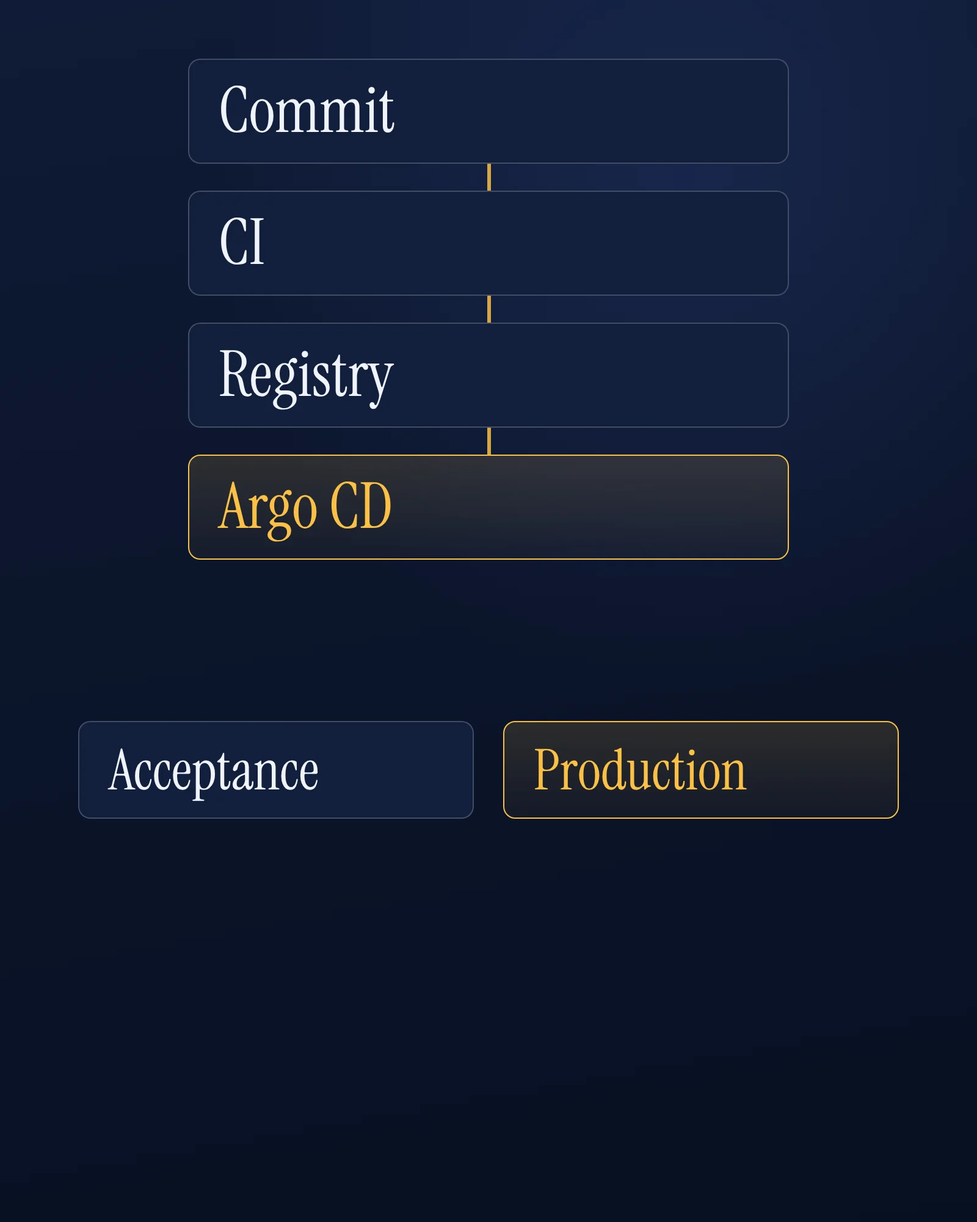
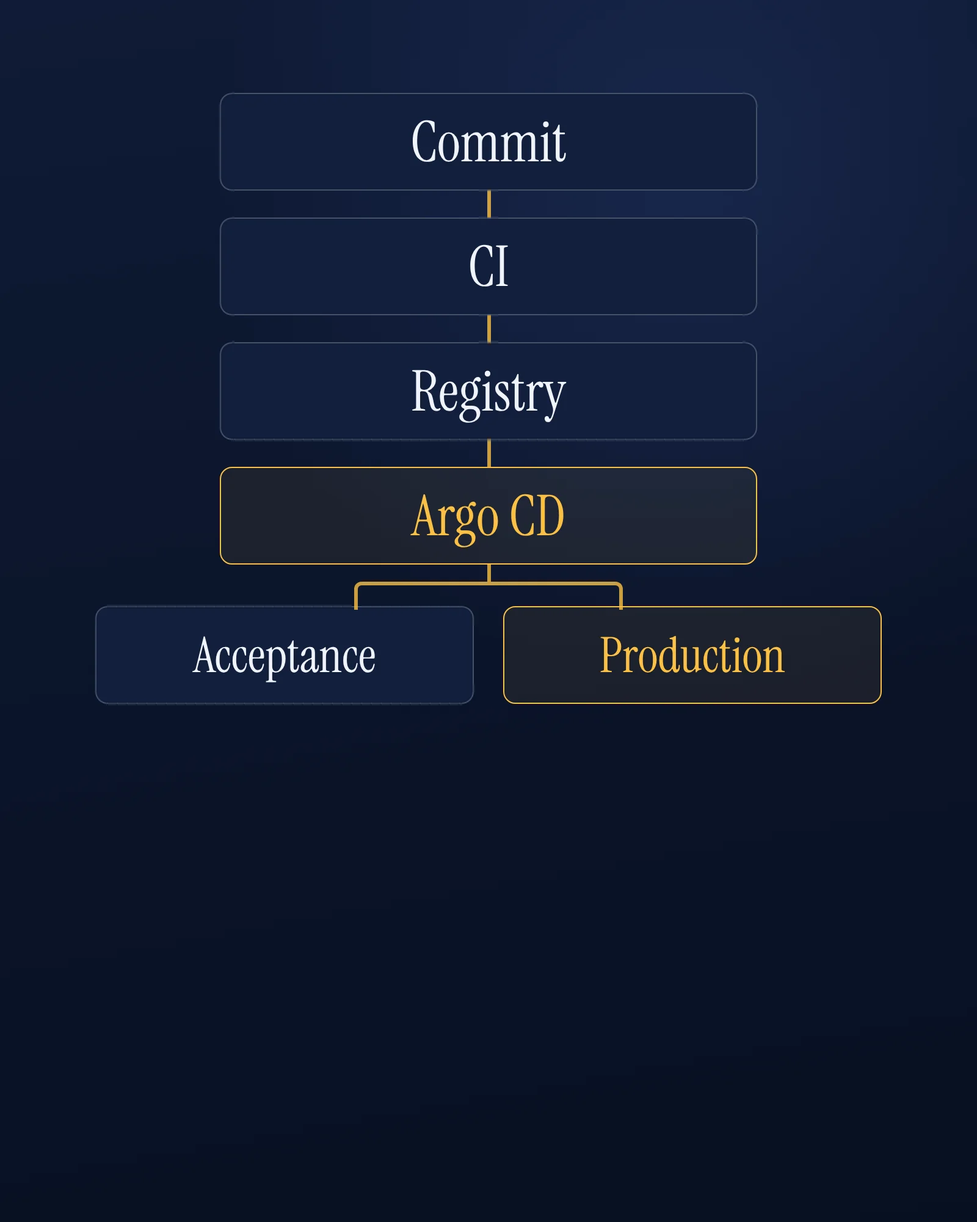
Round 14: rewritten About me and Experience story, card covers drawn for the 4:5 card
Claude-Session: https://claude.ai/code/session_01MZiGAcmWGZMW18cgyC5YR7

diff --git a/design/directions/r2-beeld/artifact/index.html b/design/directions/r2-beeld/artifact/index.html
@@ -29,7 +29,7 @@
         <p class="stage__kicker">Guus Ekkelenkamp · Rotterdam</p>
         <h1 class="stage__title" id="hero-title">I like building things that keep running.</h1>
         <p class="stage__role">Tech lead infrastructure &amp; platform engineering at Harborn</p>
-        <p class="stage__intro">I build and run the platforms our client projects run on: Kubernetes, GitOps and infrastructure as code on AWS and Azure. Ten years at the same agency, from front-end intern to leading the infra team, and I still write code most days.</p>
+        <p class="stage__intro">I&rsquo;m Guus. I lead the infrastructure team at Harborn, a digital agency in Rotterdam, where I build and run the platform our client projects live on: Kubernetes, GitOps and infrastructure as code on AWS and Azure. Ten years in, and I still write code most days.</p>
         <dl class="stats">
           <div><dd>10+</dd><dt>years</dt></div>
           <div><dd>8</dd><dt>clusters</dt></div>
@@ -54,21 +54,21 @@
     <h2 class="sec__h" id="about-title">About me</h2>
     <div class="sec__body">
       <div class="prose about__prose">
-        <p>I&rsquo;m an open person and I like bringing out the best in people. In the right environment I have a lot of energy, and I love connecting people. I&rsquo;m usually the one organising things, at work and with friends, and I like doing activities together. I don&rsquo;t like things formal. I&rsquo;m a real Rotterdammer.</p>
-        <p>Gaming got me into tech, and work made me stay; I don&rsquo;t game much anymore. What I enjoy most is cracking a hard problem, and then making sure people have the tools to solve the next one themselves.</p>
+        <p>I&rsquo;m a real Rotterdammer, which mostly means I say what I think and skip the formalities. I&rsquo;m an open person and I like bringing out the best in people. Put me in the right setting and I have energy to spare. With friends I&rsquo;m usually the one who plans the outing and chases everyone in the group chat for a date. I do the same at work, because someone has to and I quite like being that person.</p>
+        <p>Gaming got me into tech and work got me stuck, though I barely game anymore. What I enjoy most hasn&rsquo;t changed since my first year: digging into a difficult problem until it&rsquo;s fixed, then making sure people have the tools to fix the next one themselves.</p>
       </div>
       <ul class="likes__list">
-        <li class="like" data-lift="bouldering" tabindex="0"><span class="like__mark" aria-hidden="true"></span><span class="like__name">Bouldering</span><span class="like__line">Mostly at Neoliet in Rotterdam.</span></li>
-        <li class="like" data-lift="travel" tabindex="0"><span class="like__mark" aria-hidden="true"></span><span class="like__name">Travelling</span><span class="like__line">Mostly in Asia; Japan and South Korea stood out.</span></li>
-        <li class="like" data-lift="me" tabindex="0"><span class="like__mark" aria-hidden="true"></span><span class="like__name">Card and board games</span><span class="like__line">Mostly one card game, but I like all kinds of games, usually with friends.</span></li>
-        <li class="like" data-lift="me" tabindex="0"><span class="like__mark" aria-hidden="true"></span><span class="like__name">Tinkering</span><span class="like__line">My home server and a small Kubernetes setup at home.</span></li>
+        <li class="like" data-lift="bouldering" tabindex="0"><span class="like__mark" aria-hidden="true"></span><span class="like__name">Bouldering</span><span class="like__line">Usually at Neoliet, my climbing gym in Rotterdam.</span></li>
+        <li class="like" data-lift="travel" tabindex="0"><span class="like__mark" aria-hidden="true"></span><span class="like__name">Travelling</span><span class="like__line">Mostly Asia; Japan and South Korea are my favourites so far.</span></li>
+        <li class="like" data-lift="me" tabindex="0"><span class="like__mark" aria-hidden="true"></span><span class="like__name">Card and board games</span><span class="like__line">One card game most of all, but anything goes with friends.</span></li>
+        <li class="like" data-lift="me" tabindex="0"><span class="like__mark" aria-hidden="true"></span><span class="like__name">Tinkering</span><span class="like__line">My home server and a small Kubernetes setup.</span></li>
       </ul>
     </div>
   </section>
 
   <section class="wrap strip" id="projects" aria-labelledby="projects-title">
     <div class="strip__head"><h2 class="strip__h" id="projects-title">Projects</h2><a class="strip__all" href="projects.html">All projects <span aria-hidden="true">&rarr;</span></a></div>
-    <ul class="covers"><li class="cover"><a class="cover__link" href="platform.html"><picture><source media="(max-width: 699px)" srcset="assets/covers/platform-wide.webp 1x, assets/covers/platform-wide@2x.webp 2x" width="1600" height="1000"><img class="cover__img" src="assets/covers/platform-card.webp" srcset="assets/covers/platform-card.webp 1x, assets/covers/platform-card@2x.webp 2x" width="800" height="1000" alt="" loading="lazy" decoding="async"></picture><span class="cover__text"><span class="cover__meta">Work · 2022 to now</span><span class="cover__title">Hosting platform</span><span class="cover__line">The Kubernetes platform our client projects run on: AWS first, the same setup on Azure.</span></span></a></li><li class="cover"><a class="cover__link" href="homelab.html"><picture><source media="(max-width: 699px)" srcset="assets/covers/homelab-wide.webp 1x, assets/covers/homelab-wide@2x.webp 2x" width="1600" height="1000"><img class="cover__img" src="assets/covers/homelab-card.webp" srcset="assets/covers/homelab-card.webp 1x, assets/covers/homelab-card@2x.webp 2x" width="800" height="1000" alt="" loading="lazy" decoding="async"></picture><span class="cover__text"><span class="cover__meta">Personal · 2026</span><span class="cover__title">Homelab</span><span class="cover__line">The patterns I use at work, on one old laptop at home.</span></span></a></li><li class="cover"><a class="cover__link" href="mtg.html"><picture><source media="(max-width: 699px)" srcset="assets/covers/mtg-wide.webp 1x, assets/covers/mtg-wide@2x.webp 2x" width="1600" height="1000"><img class="cover__img" src="assets/covers/mtg-card.webp" srcset="assets/covers/mtg-card.webp 1x, assets/covers/mtg-card@2x.webp 2x" width="800" height="1000" alt="" loading="lazy" decoding="async"></picture><span class="cover__text"><span class="cover__meta">Personal · 2026</span><span class="cover__title">MTG suite</span><span class="cover__line">Four tools for Magic: The Gathering, all running on the homelab.</span></span></a></li></ul>
+    <ul class="covers"><li class="cover"><a class="cover__link" href="platform.html"><img class="cover__img" src="assets/covers/platform-card.webp" srcset="assets/covers/platform-card.webp 1x, assets/covers/platform-card@2x.webp 2x" width="800" height="1000" alt="" loading="lazy" decoding="async"><span class="cover__text"><span class="cover__meta">Work · 2022 to now</span><span class="cover__title">Hosting platform</span><span class="cover__line">The Kubernetes platform our client projects run on: AWS first, the same setup on Azure.</span></span></a></li><li class="cover"><a class="cover__link" href="homelab.html"><img class="cover__img" src="assets/covers/homelab-card.webp" srcset="assets/covers/homelab-card.webp 1x, assets/covers/homelab-card@2x.webp 2x" width="800" height="1000" alt="" loading="lazy" decoding="async"><span class="cover__text"><span class="cover__meta">Personal · 2026</span><span class="cover__title">Homelab</span><span class="cover__line">The patterns I use at work, on one old laptop at home.</span></span></a></li><li class="cover"><a class="cover__link" href="mtg.html"><img class="cover__img" src="assets/covers/mtg-card.webp" srcset="assets/covers/mtg-card.webp 1x, assets/covers/mtg-card@2x.webp 2x" width="800" height="1000" alt="" loading="lazy" decoding="async"><span class="cover__text"><span class="cover__meta">Personal · 2026</span><span class="cover__title">MTG suite</span><span class="cover__line">Four tools for Magic: The Gathering, all running on the homelab.</span></span></a></li></ul>
   </section>
 
 
@@ -81,41 +81,44 @@
       <ol class="phases">
         <li class="phase">
           <h4 class="phase__title">Tech lead infrastructure <span class="phase__years">2024–now</span></h4>
+          <p class="phase__intro">The platform I started became the standard for our clients, and running it now means leading the team behind it.</p>
           <ul>
-            <li>I lead the infra team, up to four engineers. A normal week is reviews and architecture decisions, training and mentoring, and client contact, including the escalations.</li>
-            <li>I run the <a href="platform.html">hosting platform</a>: 8 Kubernetes clusters, the largest above 1,500 pods. I&rsquo;m moving its infrastructure delivery to Pulumi.</li>
-            <li>We moved the clusters from IPv4 to IPv6, which didn&rsquo;t go without problems (<a href="#learned">one of them below</a>).</li>
-            <li>Training programmes with clients and internal knowledge sessions, so the knowledge doesn&rsquo;t stay with me.</li>
-            <li>Security officer for our ISO 27001 certification: I maintain the policies, the management system and the audits.</li>
+            <li>I lead the infra team, up to four engineers. A normal week is reviewing their changes, making architecture decisions, mentoring, and handling client contact and escalations.</li>
+            <li>I run the <a href="platform.html">hosting platform</a>: 8 Kubernetes clusters for Dutch and international clients on AWS (Ireland and Tokyo) and Azure. The largest runs more than 1,500 pods, and about 80 apps deploy through Argo CD.</li>
+            <li>I&rsquo;m moving infrastructure delivery to Pulumi. We also moved the clusters from IPv4 to IPv6, which didn&rsquo;t go without problems (<a href="#learned">one of them below</a>).</li>
+            <li>I run training programmes with clients and internal knowledge sessions. As security officer for ISO 27001, I maintain the policies, the audits and the management system.</li>
           </ul>
-          <p class="phase__learned">What I learned: how much a team gets done when knowledge is shared instead of held.</p>
+          <p class="phase__learned">What I learned: an hour spent on a review or a training session pays off more than an hour spent fixing things myself.</p>
         </li>
         <li class="phase">
           <h4 class="phase__title">Infrastructure engineer <span class="phase__years">2020–2024</span></h4>
+          <p class="phase__intro">Once I knew my way around AWS and networking, I moved into infrastructure full time and started the platform I run today.</p>
           <ul>
-            <li>Complex architectures and networking, which I love as a puzzle.</li>
-            <li>Our Jenkins as code, and the company&rsquo;s whole infrastructure as code.</li>
-            <li>Started the custom hosting platform: a multi-year project, and the one I learned the most from.</li>
-            <li>Internal tooling, such as a CLI that gets anyone into any environment with the right role.</li>
+            <li>I designed complex architectures and networks, the part of the work I enjoy most, because each one is a puzzle.</li>
+            <li>I put our Jenkins in code, then the rest of the company&rsquo;s infrastructure, including the serverless foundations on AWS.</li>
+            <li>I started the custom hosting platform: a multi-year project that replaced a separate setup per client with one shared standard.</li>
+            <li>I built internal tooling, such as a CLI that gets anyone into any environment with the right role.</li>
           </ul>
-          <p class="phase__learned">What I learned: the most, from building the hosting platform over several years.</p>
+          <p class="phase__learned">What I learned: one standard platform, fully in code, is easier to change and support than a custom setup for every client.</p>
         </li>
         <li class="phase">
           <h4 class="phase__title">Back-end and serverless developer <span class="phase__years">2017–2020</span></h4>
+          <p class="phase__intro">From the front end I moved to the back end, where my code started to depend on the infrastructure it ran on.</p>
           <ul>
-            <li>Python, including piloting it as a language at Harborn.</li>
-            <li>Pioneered infrastructure as code and serverless on AWS (Lambda, CloudWatch, S3, Aurora), plus the CI/CD automation around it.</li>
-            <li>Worked on a worldwide B2B ordering platform.</li>
+            <li>I piloted Python as a language at Harborn and used it for most of my back-end work.</li>
+            <li>I introduced infrastructure as code and serverless on AWS (Lambda, CloudWatch, S3, Aurora), with CI/CD automation to deploy it.</li>
+            <li>I worked on a worldwide B2B ordering platform.</li>
           </ul>
-          <p class="phase__learned">What I learned: AWS and networking.</p>
+          <p class="phase__learned">What I learned: AWS and networking, which is what pulled me towards infrastructure.</p>
         </li>
         <li class="phase">
           <h4 class="phase__title">Front-end developer, intern then junior <span class="phase__years">2016–2017</span></h4>
+          <p class="phase__intro">I started at Harborn as a front-end intern and stayed on as a junior developer.</p>
           <ul>
-            <li>Mostly Angular, on client projects.</li>
-            <li>My internship was a complete website, from researching headless CMSes to implementing one.</li>
+            <li>Most of my work was in Angular.</li>
+            <li>For my internship I built a complete website: I researched headless CMSes first, then implemented one.</li>
           </ul>
-          <p class="phase__learned">What I learned: shipping a whole product, end to end.</p>
+          <p class="phase__learned">What I learned: how to take a website from the first technical choice to a finished build.</p>
         </li>
       </ol>
     </div>
@@ -125,13 +128,13 @@
     <h2 class="sec__h" id="learned-title">What I&rsquo;ve learned</h2>
     <div class="sec__body">
       <dl class="deflist learned-list">
-        <div><dt>Teaching beats fixing</dt><dd>Fixing it myself is quick. Showing someone how to fix it scales.</dd></div>
-        <div><dt>Standardise first</dt><dd>One platform for every client beats a custom setup per project, for the client and for whoever is on call.</dd></div>
-        <div><dt>Everything as code</dt><dd>If it isn&rsquo;t in git, it doesn&rsquo;t exist: infrastructure as code, Jenkins as code, GitOps.</dd></div>
+        <div><dt>Teaching beats fixing</dt><dd>If I fix something myself, it&rsquo;s fixed once. If I teach someone how, through a review, mentoring or a knowledge session, the team handles it next time without me.</dd></div>
+        <div><dt>Standardise first</dt><dd>One platform for every client means one way to deploy, upgrade and debug. A custom setup per project turns every upgrade and every incident into a one-off.</dd></div>
+        <div><dt>Everything as code</dt><dd>Jenkins, the infrastructure and the deployments all live in git, so every change is reviewable, repeatable and easy to trace.</dd></div>
       </dl>
       <div class="story">
         <p class="story__h">From the IPv6 move</p>
-        <p>A database got a dual-stack address, so the apps resolved both an IPv4 and an IPv6 address. The IPv6 connections hung, because the security group only allowed IPv4. On top of that, IPv6-only egress only works with DNS64 and NAT64, so everything around it needs testing too.</p>
+        <p>After we moved the clusters to IPv6, apps started hanging when they connected to a database. The database had a dual-stack address, so the apps resolved both an IPv4 and an IPv6 address, and the IPv6 connections hung because the security group only allowed IPv4. Allowing IPv6 there fixed it. The bigger lesson: IPv6-only egress only works with DNS64 and NAT64, so everything around the clusters needs testing too.</p>
       </div>
     </div>
   </section>
@@ -162,7 +165,7 @@
     <div class="sec__body">
       <p class="contact__mail" id="mail-address">ekkelenkampguus@gmail.com</p>
       <p><button type="button" class="copy" data-copy-target="mail-address" aria-describedby="copy-status"><svg viewBox="0 0 24 24" fill="none" stroke="currentColor" stroke-width="1.6" aria-hidden="true"><rect x="8" y="8" width="12" height="12" rx="1"/><path d="M16 8V4H4v12h4"/></svg><span class="copy__label">Copy address</span></button><span class="visually-hidden" id="copy-status" role="status" aria-live="polite"></span></p>
-      <p class="contact__line">Want to talk platforms, homelabs or games? Mail me.</p>
+      <p class="contact__line">Mail me about anything on this page, or just to say hi. I do reply, eventually.</p>
     </div>
   </section>
   </div>

diff --git a/design/directions/r2-beeld/index.html b/design/directions/r2-beeld/index.html
@@ -36,7 +36,7 @@
         <p class="stage__kicker">Guus Ekkelenkamp · Rotterdam</p>
         <h1 class="stage__title" id="hero-title">I like building things that keep running.</h1>
         <p class="stage__role">Tech lead infrastructure &amp; platform engineering at Harborn</p>
-        <p class="stage__intro">I build and run the platforms our client projects run on: Kubernetes, GitOps and infrastructure as code on AWS and Azure. Ten years at the same agency, from front-end intern to leading the infra team, and I still write code most days.</p>
+        <p class="stage__intro">I&rsquo;m Guus. I lead the infrastructure team at Harborn, a digital agency in Rotterdam, where I build and run the platform our client projects live on: Kubernetes, GitOps and infrastructure as code on AWS and Azure. Ten years in, and I still write code most days.</p>
         <dl class="stats">
           <div><dd>10+</dd><dt>years</dt></div>
           <div><dd>8</dd><dt>clusters</dt></div>
@@ -61,21 +61,21 @@
     <h2 class="sec__h" id="about-title">About me</h2>
     <div class="sec__body">
       <div class="prose about__prose">
-        <p>I&rsquo;m an open person and I like bringing out the best in people. In the right environment I have a lot of energy, and I love connecting people. I&rsquo;m usually the one organising things, at work and with friends, and I like doing activities together. I don&rsquo;t like things formal. I&rsquo;m a real Rotterdammer.</p>
-        <p>Gaming got me into tech, and work made me stay; I don&rsquo;t game much anymore. What I enjoy most is cracking a hard problem, and then making sure people have the tools to solve the next one themselves.</p>
+        <p>I&rsquo;m a real Rotterdammer, which mostly means I say what I think and skip the formalities. I&rsquo;m an open person and I like bringing out the best in people. Put me in the right setting and I have energy to spare. With friends I&rsquo;m usually the one who plans the outing and chases everyone in the group chat for a date. I do the same at work, because someone has to and I quite like being that person.</p>
+        <p>Gaming got me into tech and work got me stuck, though I barely game anymore. What I enjoy most hasn&rsquo;t changed since my first year: digging into a difficult problem until it&rsquo;s fixed, then making sure people have the tools to fix the next one themselves.</p>
       </div>
       <ul class="likes__list">
-        <li class="like" data-lift="bouldering" tabindex="0"><span class="like__mark" aria-hidden="true"></span><span class="like__name">Bouldering</span><span class="like__line">Mostly at Neoliet in Rotterdam.</span></li>
-        <li class="like" data-lift="travel" tabindex="0"><span class="like__mark" aria-hidden="true"></span><span class="like__name">Travelling</span><span class="like__line">Mostly in Asia; Japan and South Korea stood out.</span></li>
-        <li class="like" data-lift="me" tabindex="0"><span class="like__mark" aria-hidden="true"></span><span class="like__name">Card and board games</span><span class="like__line">Mostly one card game, but I like all kinds of games, usually with friends.</span></li>
-        <li class="like" data-lift="me" tabindex="0"><span class="like__mark" aria-hidden="true"></span><span class="like__name">Tinkering</span><span class="like__line">My home server and a small Kubernetes setup at home.</span></li>
+        <li class="like" data-lift="bouldering" tabindex="0"><span class="like__mark" aria-hidden="true"></span><span class="like__name">Bouldering</span><span class="like__line">Usually at Neoliet, my climbing gym in Rotterdam.</span></li>
+        <li class="like" data-lift="travel" tabindex="0"><span class="like__mark" aria-hidden="true"></span><span class="like__name">Travelling</span><span class="like__line">Mostly Asia; Japan and South Korea are my favourites so far.</span></li>
+        <li class="like" data-lift="me" tabindex="0"><span class="like__mark" aria-hidden="true"></span><span class="like__name">Card and board games</span><span class="like__line">One card game most of all, but anything goes with friends.</span></li>
+        <li class="like" data-lift="me" tabindex="0"><span class="like__mark" aria-hidden="true"></span><span class="like__name">Tinkering</span><span class="like__line">My home server and a small Kubernetes setup.</span></li>
       </ul>
     </div>
   </section>
 
   <section class="wrap strip" id="projects" aria-labelledby="projects-title">
     <div class="strip__head"><h2 class="strip__h" id="projects-title">Projects</h2><a class="strip__all" href="projects.html">All projects <span aria-hidden="true">&rarr;</span></a></div>
-    <ul class="covers"><li class="cover"><a class="cover__link" href="platform.html"><picture><source media="(max-width: 699px)" srcset="assets/covers/platform-wide.webp 1x, assets/covers/platform-wide@2x.webp 2x" width="1600" height="1000"><img class="cover__img" src="assets/covers/platform-card.webp" srcset="assets/covers/platform-card.webp 1x, assets/covers/platform-card@2x.webp 2x" width="800" height="1000" alt="" loading="lazy" decoding="async"></picture><span class="cover__text"><span class="cover__meta">Work · 2022 to now</span><span class="cover__title">Hosting platform</span><span class="cover__line">The Kubernetes platform our client projects run on: AWS first, the same setup on Azure.</span></span></a></li><li class="cover"><a class="cover__link" href="homelab.html"><picture><source media="(max-width: 699px)" srcset="assets/covers/homelab-wide.webp 1x, assets/covers/homelab-wide@2x.webp 2x" width="1600" height="1000"><img class="cover__img" src="assets/covers/homelab-card.webp" srcset="assets/covers/homelab-card.webp 1x, assets/covers/homelab-card@2x.webp 2x" width="800" height="1000" alt="" loading="lazy" decoding="async"></picture><span class="cover__text"><span class="cover__meta">Personal · 2026</span><span class="cover__title">Homelab</span><span class="cover__line">The patterns I use at work, on one old laptop at home.</span></span></a></li><li class="cover"><a class="cover__link" href="mtg.html"><picture><source media="(max-width: 699px)" srcset="assets/covers/mtg-wide.webp 1x, assets/covers/mtg-wide@2x.webp 2x" width="1600" height="1000"><img class="cover__img" src="assets/covers/mtg-card.webp" srcset="assets/covers/mtg-card.webp 1x, assets/covers/mtg-card@2x.webp 2x" width="800" height="1000" alt="" loading="lazy" decoding="async"></picture><span class="cover__text"><span class="cover__meta">Personal · 2026</span><span class="cover__title">MTG suite</span><span class="cover__line">Four tools for Magic: The Gathering, all running on the homelab.</span></span></a></li></ul>
+    <ul class="covers"><li class="cover"><a class="cover__link" href="platform.html"><img class="cover__img" src="assets/covers/platform-card.webp" srcset="assets/covers/platform-card.webp 1x, assets/covers/platform-card@2x.webp 2x" width="800" height="1000" alt="" loading="lazy" decoding="async"><span class="cover__text"><span class="cover__meta">Work · 2022 to now</span><span class="cover__title">Hosting platform</span><span class="cover__line">The Kubernetes platform our client projects run on: AWS first, the same setup on Azure.</span></span></a></li><li class="cover"><a class="cover__link" href="homelab.html"><img class="cover__img" src="assets/covers/homelab-card.webp" srcset="assets/covers/homelab-card.webp 1x, assets/covers/homelab-card@2x.webp 2x" width="800" height="1000" alt="" loading="lazy" decoding="async"><span class="cover__text"><span class="cover__meta">Personal · 2026</span><span class="cover__title">Homelab</span><span class="cover__line">The patterns I use at work, on one old laptop at home.</span></span></a></li><li class="cover"><a class="cover__link" href="mtg.html"><img class="cover__img" src="assets/covers/mtg-card.webp" srcset="assets/covers/mtg-card.webp 1x, assets/covers/mtg-card@2x.webp 2x" width="800" height="1000" alt="" loading="lazy" decoding="async"><span class="cover__text"><span class="cover__meta">Personal · 2026</span><span class="cover__title">MTG suite</span><span class="cover__line">Four tools for Magic: The Gathering, all running on the homelab.</span></span></a></li></ul>
   </section>
 
 
@@ -88,41 +88,44 @@
       <ol class="phases">
         <li class="phase">
           <h4 class="phase__title">Tech lead infrastructure <span class="phase__years">2024–now</span></h4>
+          <p class="phase__intro">The platform I started became the standard for our clients, and running it now means leading the team behind it.</p>
           <ul>
-            <li>I lead the infra team, up to four engineers. A normal week is reviews and architecture decisions, training and mentoring, and client contact, including the escalations.</li>
-            <li>I run the <a href="platform.html">hosting platform</a>: 8 Kubernetes clusters, the largest above 1,500 pods. I&rsquo;m moving its infrastructure delivery to Pulumi.</li>
-            <li>We moved the clusters from IPv4 to IPv6, which didn&rsquo;t go without problems (<a href="#learned">one of them below</a>).</li>
-            <li>Training programmes with clients and internal knowledge sessions, so the knowledge doesn&rsquo;t stay with me.</li>
-            <li>Security officer for our ISO 27001 certification: I maintain the policies, the management system and the audits.</li>
+            <li>I lead the infra team, up to four engineers. A normal week is reviewing their changes, making architecture decisions, mentoring, and handling client contact and escalations.</li>
+            <li>I run the <a href="platform.html">hosting platform</a>: 8 Kubernetes clusters for Dutch and international clients on AWS (Ireland and Tokyo) and Azure. The largest runs more than 1,500 pods, and about 80 apps deploy through Argo CD.</li>
+            <li>I&rsquo;m moving infrastructure delivery to Pulumi. We also moved the clusters from IPv4 to IPv6, which didn&rsquo;t go without problems (<a href="#learned">one of them below</a>).</li>
+            <li>I run training programmes with clients and internal knowledge sessions. As security officer for ISO 27001, I maintain the policies, the audits and the management system.</li>
           </ul>
-          <p class="phase__learned">What I learned: how much a team gets done when knowledge is shared instead of held.</p>
+          <p class="phase__learned">What I learned: an hour spent on a review or a training session pays off more than an hour spent fixing things myself.</p>
         </li>
         <li class="phase">
           <h4 class="phase__title">Infrastructure engineer <span class="phase__years">2020–2024</span></h4>
+          <p class="phase__intro">Once I knew my way around AWS and networking, I moved into infrastructure full time and started the platform I run today.</p>
           <ul>
-            <li>Complex architectures and networking, which I love as a puzzle.</li>
-            <li>Our Jenkins as code, and the company&rsquo;s whole infrastructure as code.</li>
-            <li>Started the custom hosting platform: a multi-year project, and the one I learned the most from.</li>
-            <li>Internal tooling, such as a CLI that gets anyone into any environment with the right role.</li>
+            <li>I designed complex architectures and networks, the part of the work I enjoy most, because each one is a puzzle.</li>
+            <li>I put our Jenkins in code, then the rest of the company&rsquo;s infrastructure, including the serverless foundations on AWS.</li>
+            <li>I started the custom hosting platform: a multi-year project that replaced a separate setup per client with one shared standard.</li>
+            <li>I built internal tooling, such as a CLI that gets anyone into any environment with the right role.</li>
           </ul>
-          <p class="phase__learned">What I learned: the most, from building the hosting platform over several years.</p>
+          <p class="phase__learned">What I learned: one standard platform, fully in code, is easier to change and support than a custom setup for every client.</p>
         </li>
         <li class="phase">
           <h4 class="phase__title">Back-end and serverless developer <span class="phase__years">2017–2020</span></h4>
+          <p class="phase__intro">From the front end I moved to the back end, where my code started to depend on the infrastructure it ran on.</p>
           <ul>
-            <li>Python, including piloting it as a language at Harborn.</li>
-            <li>Pioneered infrastructure as code and serverless on AWS (Lambda, CloudWatch, S3, Aurora), plus the CI/CD automation around it.</li>
-            <li>Worked on a worldwide B2B ordering platform.</li>
+            <li>I piloted Python as a language at Harborn and used it for most of my back-end work.</li>
+            <li>I introduced infrastructure as code and serverless on AWS (Lambda, CloudWatch, S3, Aurora), with CI/CD automation to deploy it.</li>
+            <li>I worked on a worldwide B2B ordering platform.</li>
           </ul>
-          <p class="phase__learned">What I learned: AWS and networking.</p>
+          <p class="phase__learned">What I learned: AWS and networking, which is what pulled me towards infrastructure.</p>
         </li>
         <li class="phase">
           <h4 class="phase__title">Front-end developer, intern then junior <span class="phase__years">2016–2017</span></h4>
+          <p class="phase__intro">I started at Harborn as a front-end intern and stayed on as a junior developer.</p>
           <ul>
-            <li>Mostly Angular, on client projects.</li>
-            <li>My internship was a complete website, from researching headless CMSes to implementing one.</li>
+            <li>Most of my work was in Angular.</li>
+            <li>For my internship I built a complete website: I researched headless CMSes first, then implemented one.</li>
           </ul>
-          <p class="phase__learned">What I learned: shipping a whole product, end to end.</p>
+          <p class="phase__learned">What I learned: how to take a website from the first technical choice to a finished build.</p>
         </li>
       </ol>
     </div>
@@ -132,13 +135,13 @@
     <h2 class="sec__h" id="learned-title">What I&rsquo;ve learned</h2>
     <div class="sec__body">
       <dl class="deflist learned-list">
-        <div><dt>Teaching beats fixing</dt><dd>Fixing it myself is quick. Showing someone how to fix it scales.</dd></div>
-        <div><dt>Standardise first</dt><dd>One platform for every client beats a custom setup per project, for the client and for whoever is on call.</dd></div>
-        <div><dt>Everything as code</dt><dd>If it isn&rsquo;t in git, it doesn&rsquo;t exist: infrastructure as code, Jenkins as code, GitOps.</dd></div>
+        <div><dt>Teaching beats fixing</dt><dd>If I fix something myself, it&rsquo;s fixed once. If I teach someone how, through a review, mentoring or a knowledge session, the team handles it next time without me.</dd></div>
+        <div><dt>Standardise first</dt><dd>One platform for every client means one way to deploy, upgrade and debug. A custom setup per project turns every upgrade and every incident into a one-off.</dd></div>
+        <div><dt>Everything as code</dt><dd>Jenkins, the infrastructure and the deployments all live in git, so every change is reviewable, repeatable and easy to trace.</dd></div>
       </dl>
       <div class="story">
         <p class="story__h">From the IPv6 move</p>
-        <p>A database got a dual-stack address, so the apps resolved both an IPv4 and an IPv6 address. The IPv6 connections hung, because the security group only allowed IPv4. On top of that, IPv6-only egress only works with DNS64 and NAT64, so everything around it needs testing too.</p>
+        <p>After we moved the clusters to IPv6, apps started hanging when they connected to a database. The database had a dual-stack address, so the apps resolved both an IPv4 and an IPv6 address, and the IPv6 connections hung because the security group only allowed IPv4. Allowing IPv6 there fixed it. The bigger lesson: IPv6-only egress only works with DNS64 and NAT64, so everything around the clusters needs testing too.</p>
       </div>
     </div>
   </section>
@@ -169,7 +172,7 @@
     <div class="sec__body">
       <p class="contact__mail" id="mail-address">ekkelenkampguus@gmail.com</p>
       <p><button type="button" class="copy" data-copy-target="mail-address" aria-describedby="copy-status"><svg viewBox="0 0 24 24" fill="none" stroke="currentColor" stroke-width="1.6" aria-hidden="true"><rect x="8" y="8" width="12" height="12" rx="1"/><path d="M16 8V4H4v12h4"/></svg><span class="copy__label">Copy address</span></button><span class="visually-hidden" id="copy-status" role="status" aria-live="polite"></span></p>
-      <p class="contact__line">Want to talk platforms, homelabs or games? Mail me.</p>
+      <p class="contact__line">Mail me about anything on this page, or just to say hi. I do reply, eventually.</p>
     </div>
   </section>
   </div>

diff --git a/design/directions/r2-beeld/covers.js b/design/directions/r2-beeld/covers.js
@@ -41,6 +41,21 @@ const FLOW = `.wrap{position:absolute;inset:64px 64px 64px;display:flex;flex-dir
 .c-v{width:3px;height:36px;background:#fbc044;opacity:.85;align-self:center}
 .node b{font-size:64px}
 .node span{font-size:24px}`;
+const CARD = `.zone{position:absolute;left:64px;right:64px;top:56px;height:540px;display:flex;flex-direction:column;justify-content:center;align-items:center}
+.pill{display:flex;align-items:center;justify-content:center;gap:16px;width:440px;height:80px;border:1.5px solid rgba(240,243,250,.24);border-radius:10px;background:#121f3d;font-family:"Instrument Serif",Georgia,serif;font-size:46px;line-height:1;color:#f0f3fa}
+.pill.gold{border-color:#fbc044;color:#fbc044;background:rgba(251,192,68,.07)}
+.v{width:3px;height:22px;background:#fbc044;opacity:.8}
+.fork{position:relative;width:440px;height:34px}
+.fork::before{content:"";position:absolute;left:50%;top:0;width:3px;height:14px;margin-left:-1.5px;background:#fbc044;opacity:.8}
+.fork::after{content:"";position:absolute;left:25%;right:25%;top:14px;height:20px;border:3px solid #fbc044;border-bottom:0;opacity:.8;border-radius:6px 6px 0 0}
+.pair{display:flex;gap:24px}.pair .pill{width:310px;font-size:40px}
+.lock{width:26px;height:30px;border:3px solid currentColor;border-radius:5px;position:relative;margin-top:8px}
+.lock::before{content:"";position:absolute;left:3px;right:3px;top:-16px;height:16px;border:3px solid currentColor;border-bottom:0;border-radius:12px 12px 0 0}
+.box{width:560px;border:2px solid rgba(240,243,250,.28);border-radius:12px;padding:26px 28px 30px;background:rgba(255,255,255,.03);position:relative}
+.box::after{content:"";position:absolute;left:-6%;right:-6%;bottom:-20px;height:12px;border-radius:0 0 14px 14px;background:rgba(240,243,250,.2)}
+.box p{font-size:26px;color:rgba(240,243,250,.62);margin-bottom:18px;text-align:center}
+.box .pill{width:100%}.box .pill+.pill{margin-top:16px}
+`;
 function platform(shape) {
   if (shape === "wide") {
     return doc(`<div class="wrap">
@@ -51,12 +66,11 @@ function platform(shape) {
 <p style="font-size:26px;letter-spacing:.08em;text-transform:uppercase;color:rgba(240,243,250,.55)">8 clusters · AWS and Azure · GitOps</p>
 </div>`, FLOW + ".foot{display:none}");
   }
-  return doc(`<div class="wrap">
-<div class="col" style="padding-inline:90px">
-<div class="node"><b>Commit</b></div><i class="c-v"></i><div class="node"><b>CI</b></div><i class="c-v"></i><div class="node"><b>Registry</b></div><i class="c-v"></i><div class="node gold"><b>Argo CD</b></div>
-</div>
-<div class="row" style="gap:24px"><div class="node" style="flex:1"><b style="font-size:46px">Acceptance</b></div><div class="node gold" style="flex:1"><b style="font-size:46px">Production</b></div></div>
-</div>`, FLOW + ".foot{display:none}" + ".wrap{bottom:330px;top:48px;justify-content:space-between}.node{padding:16px 24px}.node b{font-size:52px}.c-v{height:22px}");
+  return doc(`<div class="zone">
+<div class="pill">Commit</div><i class="v"></i><div class="pill">CI</div><i class="v"></i><div class="pill">Registry</div><i class="v"></i><div class="pill gold">Argo CD</div>
+<i class="fork"></i>
+<div class="pair"><div class="pill">Acceptance</div><div class="pill gold">Production</div></div>
+</div>`, CARD + ".foot{display:none}");
 }
 
 /* --- homelab: three ways in → the laptop (k3s + Home Assistant), no open ports */
@@ -81,10 +95,10 @@ function homelab(shape) {
 <div class="shield" style="align-self:flex-end"><i></i>0 open ports</div>
 </div>`, LAB + ".foot{display:none}");
   }
-  return doc(`<div class="wrap">
-${box}
-<div><p class="way" style="font-size:46px">Tailnet by default<small>two more ways in, both opt-in</small></p><div class="shield" style="margin-top:28px"><i></i>0 open ports</div></div>
-</div>`, LAB + ".wrap{bottom:330px;top:48px;justify-content:space-between}.node{padding:16px 24px}.node b{font-size:52px}.c-v{height:22px}");
+  return doc(`<div class="zone">
+<div class="pill gold" style="width:360px"><i class="lock"></i>Tailnet</div><i class="v" style="height:40px"></i>
+<div class="box"><p>One old laptop · Proxmox</p><div class="pill gold">k3s</div><div class="pill">Home Assistant</div></div>
+</div>`, CARD);
 }
 
 /* --- MTG: Tutor library behind, Rules of 99 home in front, Scryfall on a phone */
@@ -102,9 +116,9 @@ function mtg(shape, shots) {
 <p class="foot" style="left:auto;right:64px;bottom:44px">Rules of 99 · Tutor · Scryfall, in plain words</p>`, css);
   }
   return doc(`
-<div class="shot" style="${abs(20, 30, 720)}height:500px;transform:rotate(-5deg);opacity:.85"><img src="${s("tutor-library@2x.webp")}"></div>
-<div class="shot" style="${abs(40, 220, 820)}height:512px;transform:rotate(2deg)"><img src="${s("r99-lobby@2x.webp")}"></div>
-<div class="phone" style="${abs(520, 330, 230)}height:490px;transform:rotate(6deg)"><img src="${s("scryfall-home-mobile.webp")}"></div>`, css);
+<div class="shot" style="${abs(40, 70, 560)}height:350px;transform:rotate(-4deg);opacity:.85"><img src="${s("tutor-library@2x.webp")}"></div>
+<div class="shot" style="${abs(110, 210, 600)}height:375px;transform:rotate(2deg)"><img src="${s("r99-lobby@2x.webp")}"></div>
+<div class="phone" style="${abs(560, 90, 190)}height:410px;transform:rotate(6deg);padding:9px;border-radius:30px"><img src="${s("scryfall-home-mobile.webp")}" style="border-radius:22px"></div>`, css);
 }
 
 async function render(dir) {

diff --git a/design/directions/r2-beeld/artifact/site.css b/design/directions/r2-beeld/artifact/site.css
@@ -678,3 +678,8 @@ code, pre { font-family: var(--font-mono); font-variant-ligatures: none; }
 .story p:not(.story__h) { color: var(--ink-muted); font-size: var(--t-small); line-height: 1.55; }
 #about .like__chip, #about .like[data-lift]::before { display: none; }
 #about .like[data-lift] .like__name { text-decoration: none; }
+
+/* round 14 */
+.phase__intro { color: var(--ink-muted); font-size: var(--t-body); max-width: 40em; }
+.phase ul { margin-top: 0.25rem; }
+@media (max-width: 699px) { .cover__link { aspect-ratio: 4 / 5; } .cover__img { object-position: center; } }

diff --git a/design/directions/r2-beeld/site.css b/design/directions/r2-beeld/site.css
@@ -678,3 +678,8 @@ code, pre { font-family: var(--font-mono); font-variant-ligatures: none; }
 .story p:not(.story__h) { color: var(--ink-muted); font-size: var(--t-small); line-height: 1.55; }
 #about .like__chip, #about .like[data-lift]::before { display: none; }
 #about .like[data-lift] .like__name { text-decoration: none; }
+
+/* round 14 */
+.phase__intro { color: var(--ink-muted); font-size: var(--t-body); max-width: 40em; }
+.phase ul { margin-top: 0.25rem; }
+@media (max-width: 699px) { .cover__link { aspect-ratio: 4 / 5; } .cover__img { object-position: center; } }
